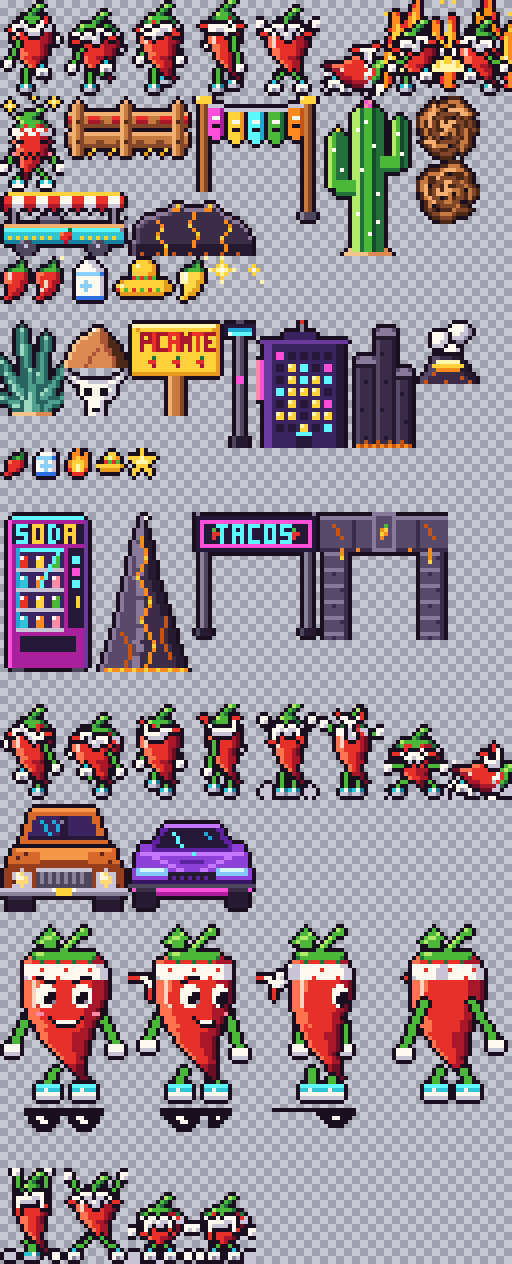
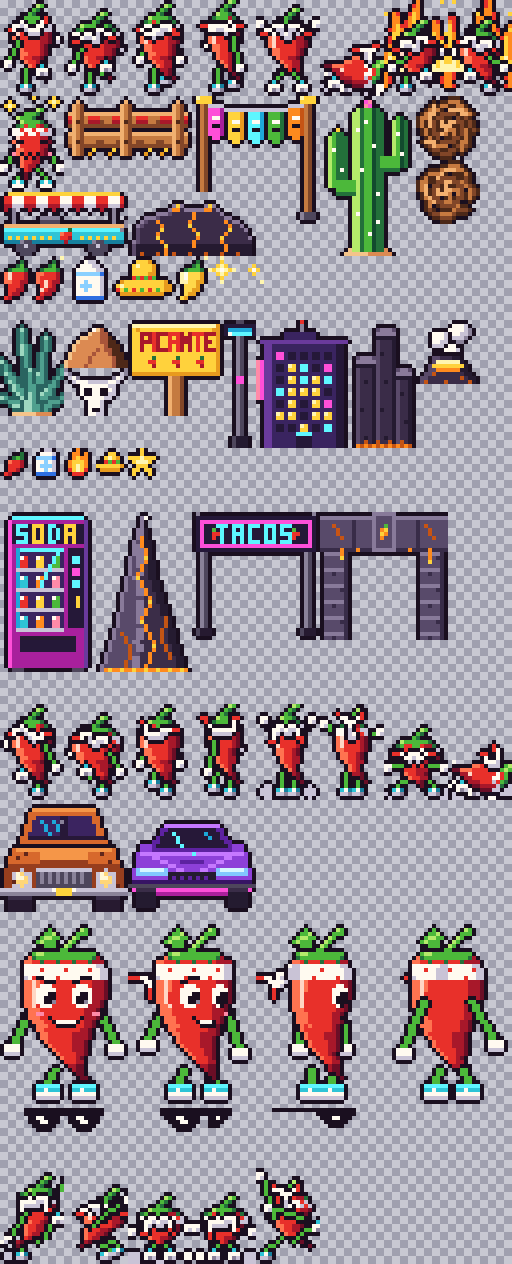
Alternate jump: a dab instead of a retouched star jump
pawel: the second jump hardly differed from the first. Now take-off is a
one-leg hop with a fist up, the top is a leaning dab (both arms out to one
side, legs dangling) and the fall has its own frame with the arms
windmilling (new jump_down_alt).

Test first: flow: alternate jump compares outlines (pixels covered by only
one of the two frames, over pixels covered by either) and wants 45% or more
in every phase. Red before: 25% take-off, 34% top, 100% fall (no frame).
Now 49%, 46%, 49%.

Claude-Session: https://claude.ai/code/session_013pjRSRUysexBBZ5cSL1vgh

Changed region(s): [[0.0, 0.9256, 0.25, 1.0], [0.5, 0.9256, 0.625, 1.0]]

diff --git a/selftest.hpp b/selftest.hpp
@@ -1140,6 +1140,36 @@ void flow_cars() {
     }
 }
 
+// How different two poses are: the share of the pixels covered by either
+// silhouette that only one of them covers (0 = same outline, 1 = no overlap).
+// Colours are left out on purpose: a retouched pose shifted by a pixel
+// changes most colours but hardly the outline.
+float frame_difference(const Rect &a, const Rect &b) {
+    Surface *sh = screen.sprites;
+    int either = 0, one = 0;
+    for(int y = 0; y < a.h; y++) {
+        for(int x = 0; x < a.w; x++) {
+            bool oa = sh->palette[sh->data[(a.y + y) * sh->bounds.w + a.x + x]].a > 0;
+            bool ob = sh->palette[sh->data[(b.y + y) * sh->bounds.w + b.x + x]].a > 0;
+            either += oa || ob;
+            one += oa != ob;
+        }
+    }
+    return either ? float(one) / float(either) : 0.0f;
+}
+
+// The alternate jump is a different move, not a retouch of the normal one:
+// every phase of it (take-off, top, fall) has an outline that differs from
+// the normal one by at least 45% (the first star jump: 25% and 34%).
+void flow_alt_jump_looks_different() {
+    float up = frame_difference(spr::jump_up_alt, spr::jump_up);
+    float top = frame_difference(spr::jump_alt, spr::jump);
+    float down = frame_difference(spr::jump_down_alt, spr::jump_down);
+    expect(up >= 0.45f && top >= 0.45f && down >= 0.45f, "flow: alternate jump",
+           "differs from the normal jump by %.0f%% at take-off, %.0f%% at the top, %.0f%% falling (want 45%% each)",
+           double(up * 100.0f), double(top * 100.0f), double(down * 100.0f));
+}
+
 // The tumbleweed hits only where it is drawn: a 16 px ball against the
 // runner's body, not half a lane either side of its centre.
 void flow_weed_hitbox() {
@@ -1373,7 +1403,7 @@ void flow_dust_at_feet() {
     fresh_save();
 }
 
-// Jumps and slides sometimes use their alternate animation (star jump,
+// Jumps and slides sometimes use their alternate animation (dab jump,
 // knee slide), never always and never never.
 void flow_alt_moves() {
     fresh_save();
@@ -1388,7 +1418,7 @@ void flow_alt_moves() {
             st_ghost = true;
             const Rect *r = player_frame(clock_ms);
             if(jump) {
-                alt |= r == &spr::jump_up_alt || r == &spr::jump_alt;
+                alt |= r == &spr::jump_up_alt || r == &spr::jump_alt || r == &spr::jump_down_alt;
                 normal |= r == &spr::jump_up || r == &spr::jump;
             } else {
                 alt |= r == &spr::slide_alt[0] || r == &spr::slide_alt[1];
@@ -1402,7 +1432,7 @@ void flow_alt_moves() {
     }
     expect(jumps > 30 && slides > 30 && jump_alts * 6 > jumps && jump_alts * 2 < jumps && slide_alts * 6 > slides &&
                slide_alts * 2 < slides,
-           "flow: alternate moves", "star jumps %d of %d, knee slides %d of %d", jump_alts, jumps, slide_alts, slides);
+           "flow: alternate moves", "dab jumps %d of %d, knee slides %d of %d", jump_alts, jumps, slide_alts, slides);
     st_ghost = false;
     fresh_save();
 }
@@ -1655,6 +1685,7 @@ void flows() {
     flow_intro();
     flow_dust_at_feet();
     flow_alt_moves();
+    flow_alt_jump_looks_different();
     flow_weed_hitbox();
     flow_weed_settle();
     st_ghost = false;

diff --git a/tools/make_sprites.py b/tools/make_sprites.py
@@ -543,18 +543,39 @@ def jump_down_frame():
 
 
 # Alternates that play now and then so jumps and slides do not look the same
-# every time: a star jump, and a knee slide with the arms spread.
+# every time: a dab jump, and a knee slide with the arms spread.
 def jump_up_alt_frame():
-    # take-off with both arms punched straight up, legs together
-    return hero_back(T=4, H=17, W=8, legs=[(7, 0, False), (8, 0, False)],
-                     hands=[(3, 0, False), (11, 0, False)], tails="rise", phase=1.3,
-                     dust=[(2.0, 21.5, 1.4, "e"), (13.5, 21.5, 1.4, "w")])
+    # one-leg hop: pushes off the left foot, right knee up with the sole at us,
+    # right fist punched up high, left arm flung down behind
+    return lean(hero_back(T=5, H=15, W=9, legs=[(5, 0, False), (13, 9, True)],
+                          hands=[(0, 17, True), (15, 0, False)], tails="rise", phase=1.3, curl=-4.0,
+                          dust=[(2.0, 21.5, 1.4, "e")]), 2)
+
+
+def lean(sp, top_shift):
+    """Shear a 16x24 frame: the bottom row stays, the top row moves by
+    top_shift pixels (the whole runner leans over)."""
+    out = Spr(sp.w, sp.h)
+    for y in range(sp.h):
+        dx = int(round(top_shift * (sp.h - 1 - y) / (sp.h - 1)))
+        for x in range(sp.w):
+            v = sp.p[y][x]
+            if v is not None and 0 <= x + dx < sp.w:
+                out.p[y][x + dx] = v
+    return out
 
 
 def jump_alt_frame():
-    # apex: spread-eagle star, arms and legs wide, both soles at us
-    return hero_back(T=5, H=14, W=10, legs=[(2, 0, True), (13, 0, True)],
-                     hands=[(0, 1, False), (14, 1, False)], tails="float", phase=0.7)
+    # top of the jump: a dab. Left arm folded across the face, right arm
+    # thrown straight out and up, legs dangling together off to the side
+    return lean(hero_back(T=8, H=12, W=11, legs=[(10, 0, False), (12, 1, False)],
+                          hands=[(12, 7, True), (15, 0, False)], tails="float", phase=0.7, curl=-5.0), 4)
+
+
+def jump_down_alt_frame():
+    # falling out of the dab: arms windmilling up on the left, legs splayed
+    return hero_back(T=6, H=14, W=11, legs=[(2, 0, False), (15, 7, True)],
+                     hands=[(0, 1, True), (2, 9, True)], tails="fall", phase=1.6, curl=5.0)
 
 
 def slide_alt_frame(alt=0):
@@ -1936,7 +1957,7 @@ def parse_rects(path):
 
 
 BOTTOM_ANCHORED = {"run", "jump", "jump_up", "jump_down", "land", "slide2", "slide", "dash", "hurt",
-                   "jump_up_alt", "jump_alt", "slide_alt", "fence", "banner",
+                   "jump_up_alt", "jump_alt", "jump_down_alt", "slide_alt", "fence", "banner",
                    "cactus", "weed", "cart", "barrier", "vending", "spire",
                    "banner_city", "banner_lava", "agave", "rock", "skull",
                    "sign", "lamp", "tower", "pillar", "vent", "car_desert", "car_city",
@@ -1958,6 +1979,7 @@ def build_sprites():
         "slide2": slide_frame(1),
         "jump_up_alt": jump_up_alt_frame(),
         "jump_alt": jump_alt_frame(),
+        "jump_down_alt": jump_down_alt_frame(),
         "slide_alt": [slide_alt_frame(0), slide_alt_frame(1)],
         "dash": dash_frames(),
         "hurt": hurt_frame(),

diff --git a/sprites.hpp b/sprites.hpp
@@ -18,10 +18,11 @@ const Rect slide    = Rect(80, 0, 16, 24);   // crouched, only the bottom ~12 ro
 const Rect slide2   = Rect(112, 176, 16, 24); // second slide frame (dust/cloth flutter), alternates with slide
 const Rect dash[2]  = {Rect(96, 0, 16, 24), Rect(112, 0, 16, 24)}; // fire dash, flames
 const Rect hurt     = Rect(0, 24, 16, 24);
-// Alternates now and then: a star jump (take-off, apex; the fall reuses
-// jump_down) and a knee slide (two frames).
+// Alternates now and then: a dab jump (one-leg hop with a fist up, a leaning
+// dab at the top, arms windmilling on the way down) and a knee slide.
 const Rect jump_up_alt = Rect(0, 292, 16, 24);
 const Rect jump_alt    = Rect(16, 292, 16, 24);
+const Rect jump_down_alt = Rect(64, 292, 16, 24);
 const Rect slide_alt[2] = {Rect(32, 292, 16, 24), Rect(48, 292, 16, 24)};
 
 // Obstacles, drawn at their nearest (largest) size, bottom-centre anchored.

diff --git a/game.cpp b/game.cpp
@@ -1785,7 +1785,7 @@ const Rect *player_frame(uint32_t time) {
     if(dashing()) return &spr::dash[(time / 80u) & 1u];
     if(in_air()) {
         float t = run.p.jump_t / JUMP_TIME;
-        if(run.jump_alt) return t < 0.22f ? &spr::jump_up_alt : (t < 0.62f ? &spr::jump_alt : &spr::jump_down);
+        if(run.jump_alt) return t < 0.22f ? &spr::jump_up_alt : (t < 0.62f ? &spr::jump_alt : &spr::jump_down_alt);
         return t < 0.22f ? &spr::jump_up : (t < 0.62f ? &spr::jump : &spr::jump_down);
     }
     if(sliding()) {
